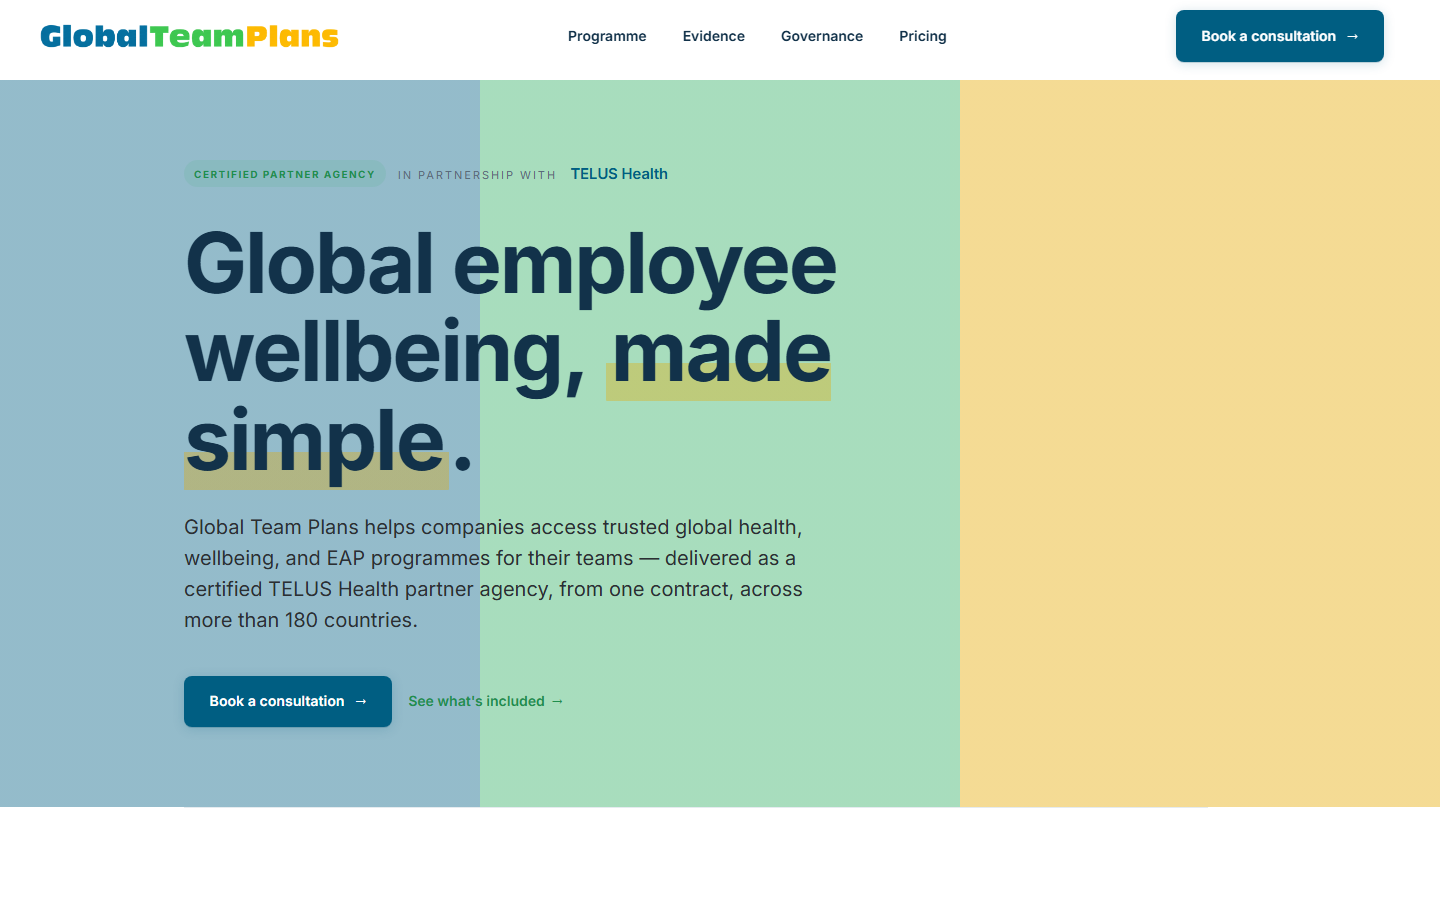
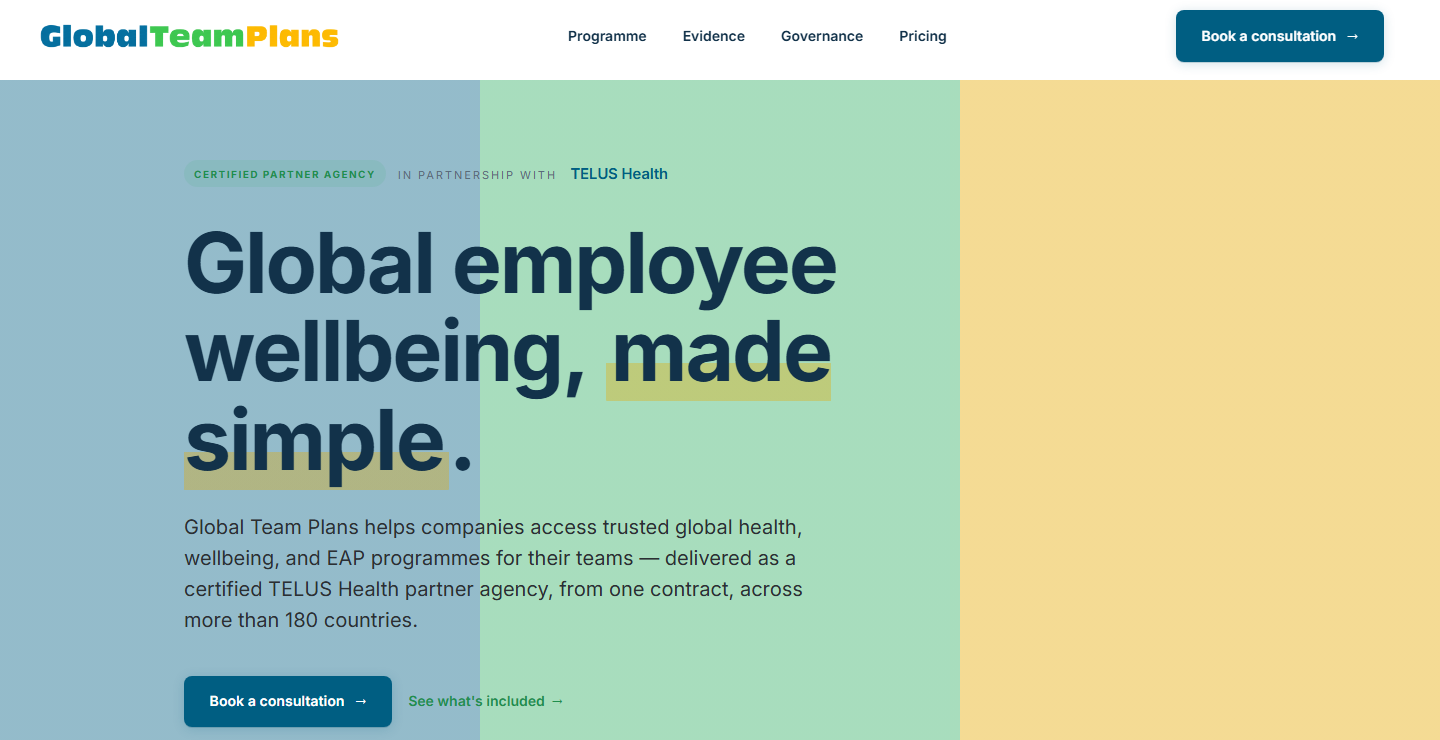
fix(ds-site): light contact panel + tidier portfolio screenshots
- Recolour the message-button overlay (.cpanel-*) to the light/purple scheme:
  white card, light titlebar, purple send button + outgoing bubble, hairline
  borders. Was still dark (#161618) on the now-light site.
- Swap the panel's maximised wordmark to the purple gradient (the old one was a
  white outline, invisible on light).
- Crop the bottom off the GlobalTeamPlans + dataportfolio screenshots (900->740)
  so GTP no longer shows a white band below its stripes.

Changed region(s): [[0.0, 0.1865, 1.0, 1.0], [0.0, 0.0311, 1.0, 0.1243]]

diff --git a/apps/ds-site/src/app/globals.css b/apps/ds-site/src/app/globals.css
@@ -1705,6 +1705,52 @@ nav.top { background: rgba(255,255,255,0.72) !important; }
 .compose-caption a { color: var(--accent) !important; }
 .caret { background: var(--accent) !important; }
 
+/* ── Contact panel (the message-button overlay) → light + purple to match the site ── */
+.cpanel-overlay { background: rgba(25,26,34,0.42) !important; }
+.cpanel-overlay--max { background: rgba(246,246,251,0.92) !important; }
+.cpanel {
+  background: #fff !important;
+  border-color: var(--hairline) !important;
+  box-shadow: 0 50px 100px -34px rgba(25,26,34,0.32), 0 0 0 1px var(--hairline) !important;
+}
+.cpanel-bar {
+  background: #f3f3f7 !important;
+  border-bottom: 1px solid var(--hairline) !important;
+  box-shadow: none !important;
+}
+.cpanel-bar-title { color: var(--silver) !important; }
+.cpanel-x { color: var(--ghost) !important; }
+.cpanel-x:hover { background: rgba(25,26,34,0.06) !important; color: var(--white) !important; }
+.cpanel-input, .cpanel-textarea {
+  background: rgba(25,26,34,0.03) !important;
+  border-color: var(--hairline) !important;
+  color: var(--white) !important;
+}
+.cpanel-input::placeholder, .cpanel-textarea::placeholder { color: var(--ghost) !important; }
+.cpanel-input:focus, .cpanel-textarea:focus {
+  border-color: var(--accent) !important;
+  background: color-mix(in srgb, var(--accent) 5%, #fff) !important;
+}
+/* outgoing message bubble → brand purple */
+.cpanel-bubble { background: var(--accent) !important; color: var(--accent-on) !important; }
+.cpanel-compose { background: #f3f3f7 !important; border-top: 1px solid var(--hairline) !important; }
+/* send button → brand purple CTA */
+.cpanel-send {
+  background: var(--accent) !important; color: var(--accent-on) !important;
+  box-shadow: 0 10px 24px -10px color-mix(in srgb, var(--accent) 70%, transparent) !important;
+}
+.cpanel-send:hover { box-shadow: 0 12px 30px -10px color-mix(in srgb, var(--accent) 80%, transparent) !important; }
+.cpanel-foot {
+  background: #f3f3f7 !important; border-top: 1px solid var(--hairline) !important;
+  color: var(--ghost) !important;
+}
+/* minimised tab (bottom-right) */
+.cpanel-tab {
+  background: #fff !important; border-color: var(--hairline) !important; color: var(--white) !important;
+  box-shadow: 0 12px 30px -12px rgba(25,26,34,0.28) !important;
+}
+.cpanel-tab:hover { box-shadow: 0 16px 36px -12px rgba(25,26,34,0.34) !important; }
+
 footer { border-color: var(--hairline) !important; }
 
 /* ── Featured work (home) ── */